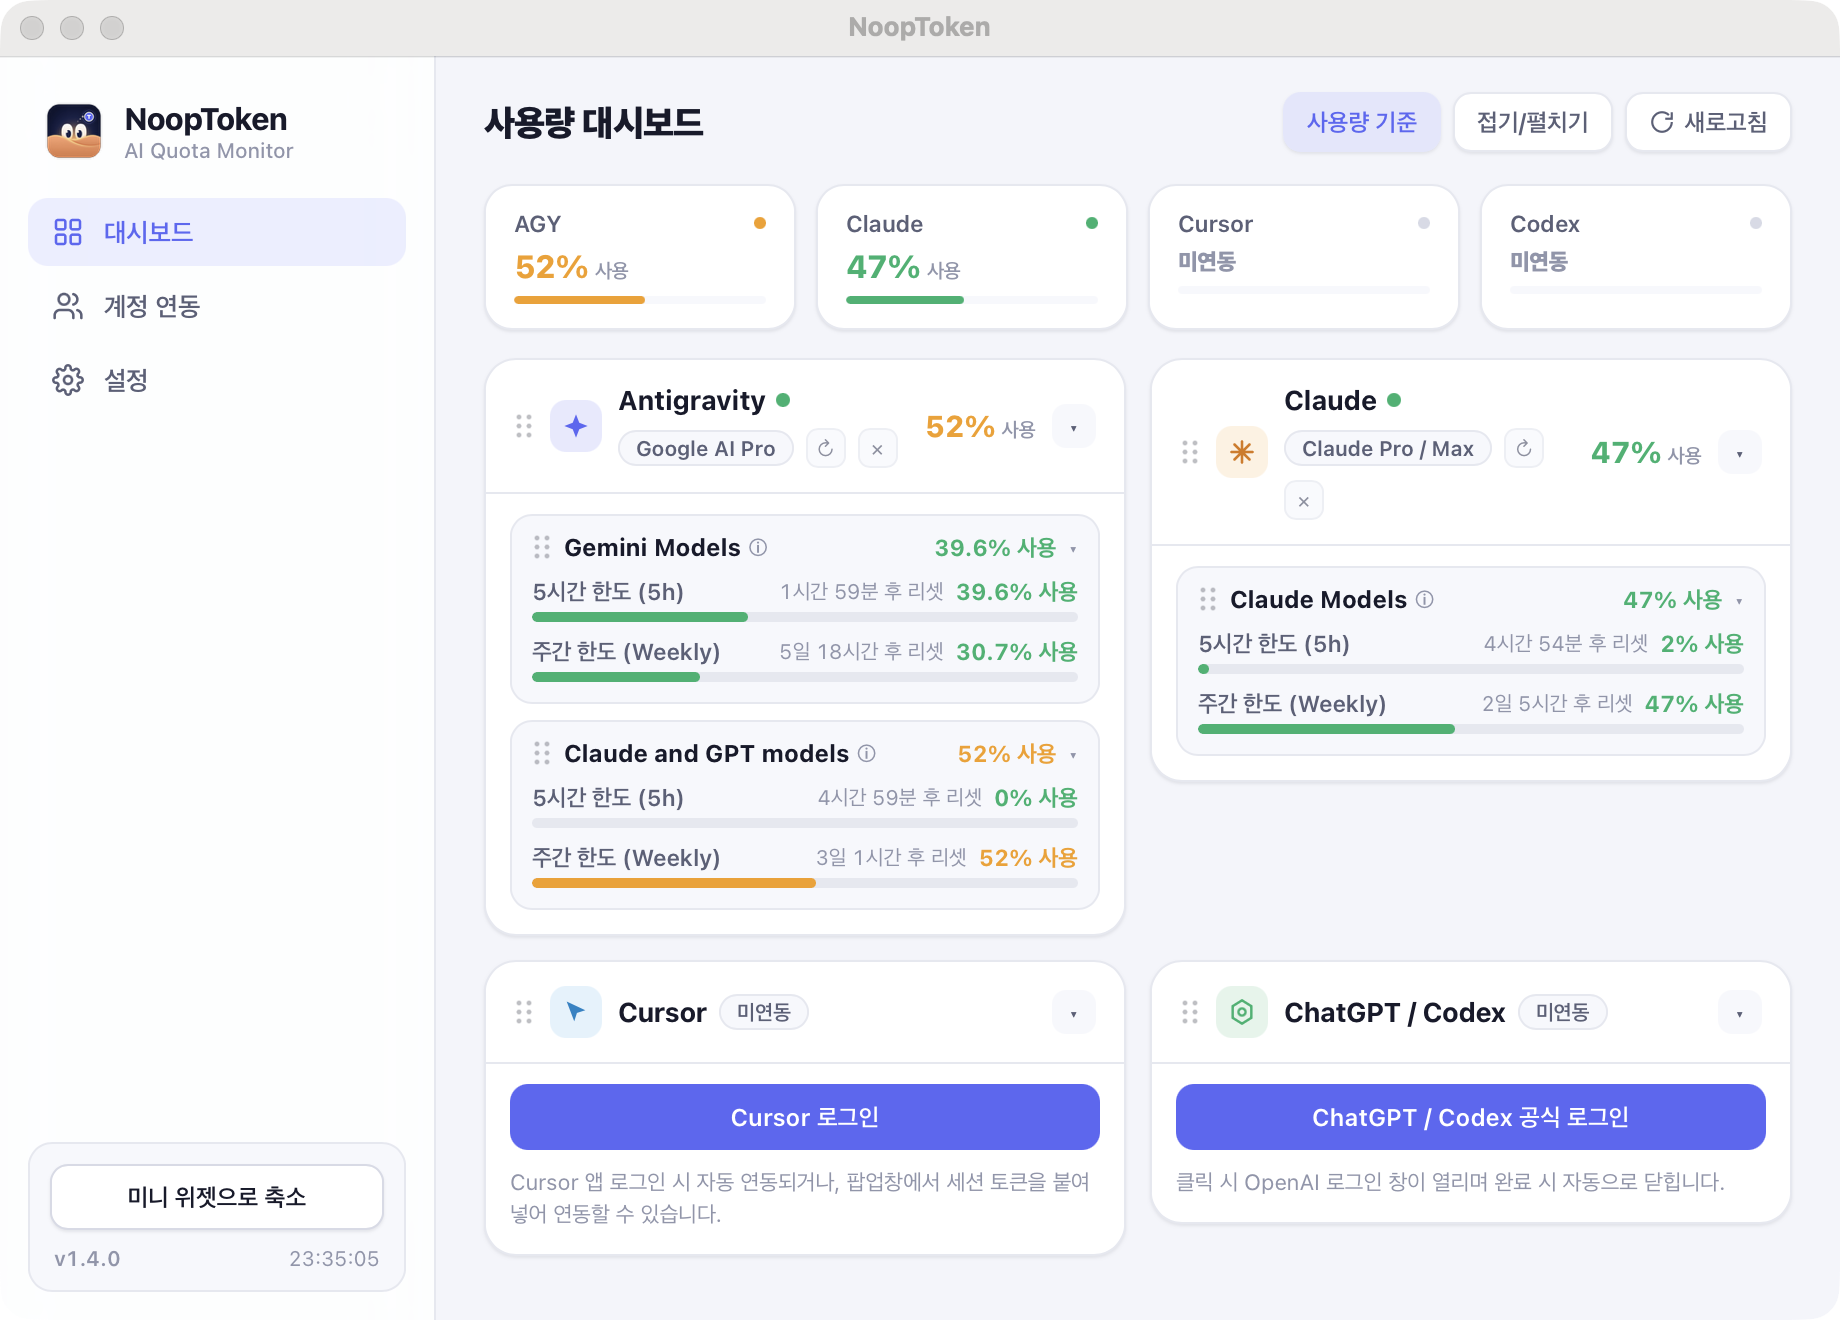
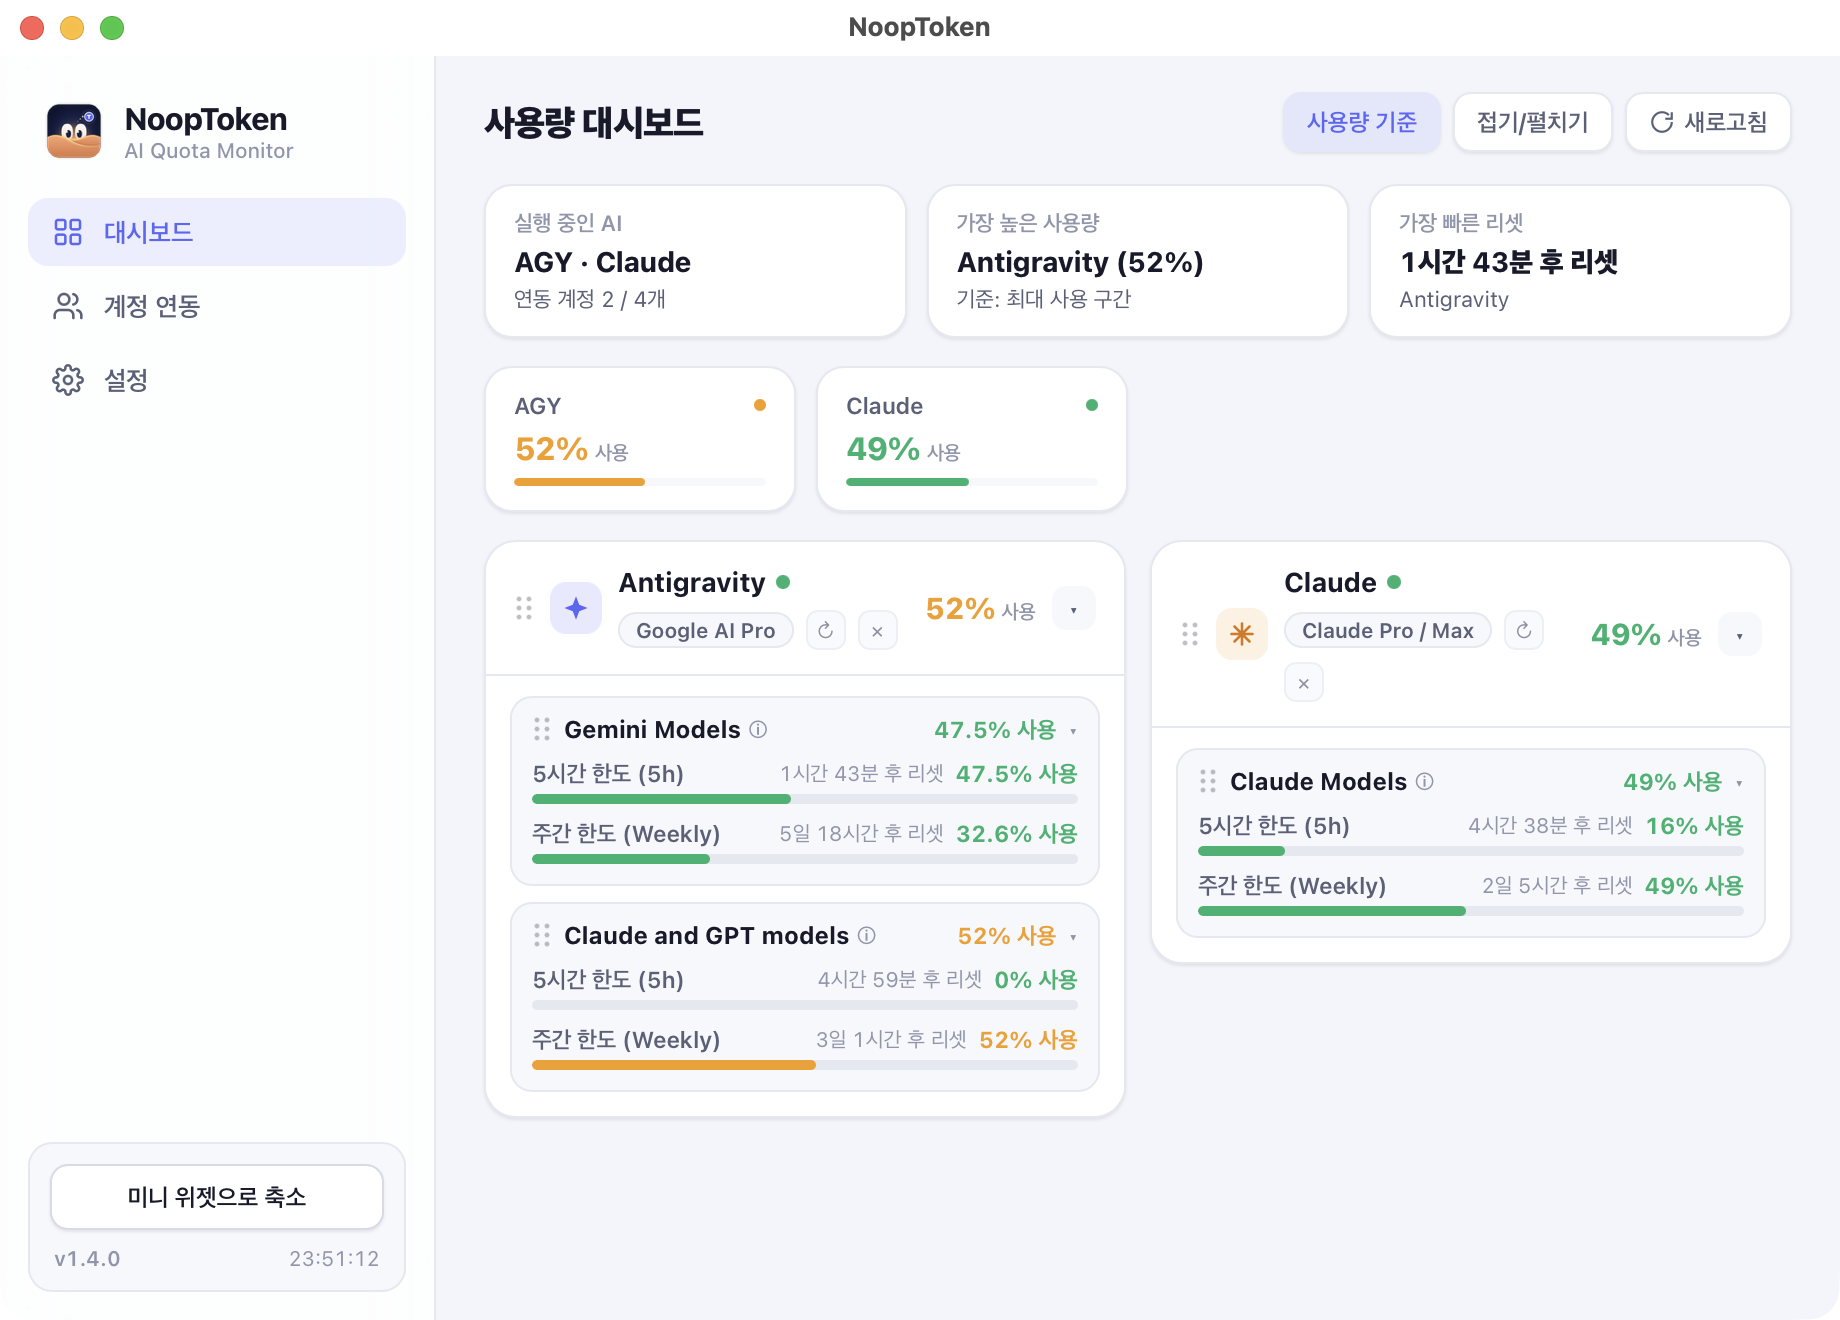
Separate Dashboard briefing/usage from Accounts management view

diff --git a/widget.py b/widget.py
@@ -524,6 +524,64 @@ UI_HTML = r"""<!DOCTYPE html>
     padding: 22px 16px; text-align: center; display: flex; flex-direction: column; gap: 10px; align-items: center;
   }
 
+  /* Dashboard Briefing Strip & Accounts List */
+  .briefing-grid {
+    display: grid;
+    grid-template-columns: repeat(3, minmax(0, 1fr));
+    gap: 10px;
+  }
+  .briefing-card {
+    background: var(--surface);
+    border: 1px solid var(--border);
+    border-radius: 14px;
+    padding: 12px 14px;
+    box-shadow: var(--shadow-sm);
+    display: flex;
+    flex-direction: column;
+    gap: 4px;
+  }
+  .briefing-label { font-size: 11px; color: var(--text-3); font-weight: 600; }
+  .briefing-value { font-size: 14px; font-weight: 750; color: var(--text); white-space: nowrap; overflow: hidden; text-overflow: ellipsis; }
+  .briefing-sub { font-size: 11px; color: var(--text-2); white-space: nowrap; overflow: hidden; text-overflow: ellipsis; }
+
+  .delta-tag {
+    font-size: 10px;
+    font-weight: 700;
+    padding: 1px 6px;
+    border-radius: 99px;
+    background: var(--surface-2);
+    border: 1px solid var(--border);
+    color: var(--text-2);
+    white-space: nowrap;
+  }
+  .delta-tag.up { color: var(--warn); }
+  .delta-tag.down { color: var(--ok); }
+
+  .accounts-grid {
+    display: grid;
+    grid-template-columns: repeat(2, minmax(0, 1fr));
+    gap: 12px;
+  }
+  @media (max-width: 720px) {
+    .briefing-grid, .accounts-grid { grid-template-columns: 1fr; }
+  }
+  .account-card {
+    background: var(--surface);
+    border: 1px solid var(--border);
+    border-radius: var(--radius);
+    padding: 16px;
+    box-shadow: var(--shadow-sm);
+    display: flex;
+    flex-direction: column;
+    gap: 12px;
+  }
+  .account-top { display: flex; align-items: center; justify-content: space-between; gap: 10px; }
+  .account-id { display: flex; align-items: center; gap: 10px; min-width: 0; }
+  .account-meta { display: flex; flex-direction: column; gap: 2px; min-width: 0; }
+  .account-title { font-weight: 700; font-size: 14px; display: flex; align-items: center; gap: 6px; }
+  .account-sub { font-size: 11.5px; color: var(--text-2); white-space: nowrap; overflow: hidden; text-overflow: ellipsis; }
+  .account-actions { display: flex; align-items: center; gap: 8px; flex-wrap: wrap; }
+
   /* Modal */
   .info-modal-backdrop {
     position: fixed; inset: 0; background: rgba(10, 12, 22, 0.55);
@@ -639,12 +697,13 @@ UI_HTML = r"""<!DOCTYPE html>
       </div>
 
       <section class="view-panel active" id="viewDashboard">
+        <div class="briefing-grid" id="briefingGrid"></div>
         <div class="mini-bar" id="miniBar"></div>
         <div class="cards" id="cardsContainer"></div>
       </section>
 
       <section class="view-panel" id="viewAccounts">
-        <div class="cards" id="accountsContainer"></div>
+        <div class="accounts-grid" id="accountsContainer"></div>
       </section>
 
       <section class="view-panel" id="viewSettings">
@@ -1017,6 +1076,100 @@ UI_HTML = r"""<!DOCTYPE html>
     `;
   }
 
+  let lastSnapshotUsed = JSON.parse(localStorage.getItem("nooptoken_last_used") || "{}");
+
+  function renderBriefing(orderedProviders) {
+    const el = document.getElementById("briefingGrid");
+    if (!el || compactMode) { if (el) el.innerHTML = ""; return; }
+    const logged = orderedProviders.filter(p => p.logged_in);
+    const running = orderedProviders.filter(p => p.running).map(p => shortName(p.id));
+    let peak = null;
+    logged.forEach(p => {
+      const used = Math.round((100 - (Number(p.remaining_pct) || 0)) * 10) / 10;
+      if (!peak || used > peak.used) peak = { name: p.name, used, reset: p.reset_text || "실시간" };
+    });
+    const nextReset = logged.find(p => p.reset_text) || logged[0];
+    el.innerHTML = `
+      <div class="briefing-card">
+        <span class="briefing-label">실행 중인 AI</span>
+        <span class="briefing-value">${running.length ? running.join(" · ") : "실행 중인 앱 없음"}</span>
+        <span class="briefing-sub">연동 계정 ${logged.length} / ${orderedProviders.length}개</span>
+      </div>
+      <div class="briefing-card">
+        <span class="briefing-label">가장 높은 사용량</span>
+        <span class="briefing-value" style="color:${peak && peak.used >= 80 ? 'var(--danger)' : 'var(--text)'}">${peak ? `${peak.name} (${peak.used}%)` : "연동 필요"}</span>
+        <span class="briefing-sub">${peak ? `기준: 최대 사용 구간` : "계정 연동 탭에서 로그인하세요"}</span>
+      </div>
+      <div class="briefing-card">
+        <span class="briefing-label">가장 빠른 리셋</span>
+        <span class="briefing-value">${nextReset ? nextReset.reset_text : "-"}</span>
+        <span class="briefing-sub">${nextReset ? nextReset.name : "대기 중"}</span>
+      </div>
+    `;
+  }
+
+  function renderAccountsView(orderedProviders) {
+    const accContainer = document.getElementById("accountsContainer");
+    if (!accContainer) return;
+    accContainer.innerHTML = orderedProviders.map(p => {
+      const showPaste = openPasteBoxes[p.id] ? "show" : "";
+      const placeholder = p.id === "claude"
+        ? "로그인 후 화면에 뜬 인증코드 붙여넣기"
+        : "WorkosCursorSessionToken 값 붙여넣기";
+      const needsPaste = (p.id === "claude" || p.id === "cursor");
+      if (p.logged_in) {
+        return `
+          <div class="account-card">
+            <div class="account-top">
+              <div class="account-id">
+                <div class="brand-icon brand-${p.id}">${getBrandIconSvg(p.id)}</div>
+                <div class="account-meta">
+                  <div class="account-title">
+                    <span>${p.name}</span>
+                    ${p.running ? `<span class="running-dot" title="현재 PC에서 실행 중"></span>` : ""}
+                  </div>
+                  <div class="account-sub">${escapeHtml(p.account || "연동됨")} · ${escapeHtml(p.plan || p.badge || "")}</div>
+                </div>
+              </div>
+              <span class="badge" style="color:var(--ok);border-color:rgba(22,179,110,0.3);">연동됨</span>
+            </div>
+            <div class="account-actions">
+              <button class="pill-btn" onclick="openProviderInfoModal('${p.id}', event)">상세 정보</button>
+              <button class="pill-btn" onclick="openLogin('${p.id}', event)">재연동</button>
+              <button class="pill-btn" style="color:var(--danger);" onclick="logoutProvider('${p.id}', event)">연동 해제</button>
+            </div>
+          </div>
+        `;
+      }
+      return `
+        <div class="account-card">
+          <div class="account-top">
+            <div class="account-id">
+              <div class="brand-icon brand-${p.id}">${getBrandIconSvg(p.id)}</div>
+              <div class="account-meta">
+                <div class="account-title">
+                  <span>${p.name}</span>
+                  ${p.running ? `<span class="running-dot" title="현재 PC에서 실행 중"></span>` : ""}
+                </div>
+                <div class="account-sub">${escapeHtml(p.hint || "계정을 연동하면 실시간 한도를 표시합니다.")}</div>
+              </div>
+            </div>
+            <span class="badge">미연동</span>
+          </div>
+          <div class="account-actions">
+            <button class="login-btn" style="width:100%;" onclick="openLogin('${p.id}', event)">${p.login_label || (p.name + " 로그인")}</button>
+          </div>
+          ${needsPaste ? `
+            <div class="paste-box ${showPaste}" id="paste_${p.id}">
+              <input class="paste-input" id="input_${p.id}" placeholder="${placeholder}" onclick="event.stopPropagation()" />
+              <button class="paste-submit" onclick="submitCodeOrToken('${p.id}', event)">연동</button>
+            </div>
+          ` : ""}
+        </div>
+      `;
+    }).join("");
+  }
+
   function render(data) {
     if (!data || !data.providers || isDragging) return;
     lastData = data;
@@ -1035,35 +1188,33 @@ UI_HTML = r"""<!DOCTYPE html>
     const orderedProviders = cardOrder.map(id => pMap[id]).filter(Boolean);
     data.providers.forEach(p => { if (!cardOrder.includes(p.id)) orderedProviders.push(p); });
 
-    // In compact (mini-widget) mode, hide apps that are NOT logged in!
-    const visibleProviders = compactMode
-      ? orderedProviders.filter(p => p.logged_in)
-      : orderedProviders;
+    renderBriefing(orderedProviders);
+    renderAccountsView(orderedProviders);
+
+    // Dashboard & Mini-widget show only logged-in providers (Accounts tab manages unlinked apps!)
+    const visibleProviders = orderedProviders.filter(p => p.logged_in);
 
     const miniBar = document.getElementById("miniBar");
-    if (visibleProviders.length === 0 && compactMode) {
+    if (visibleProviders.length === 0) {
       miniBar.innerHTML = "";
     } else {
       miniBar.innerHTML = visibleProviders.map(p => {
-        if (!p.logged_in) {
-          return `
-            <div class="mini-pill" onclick="openLogin('${p.id}', event)">
-              <div class="mini-pill-top">
-                <span>${shortName(p.id)}</span>
-                <span style="width:6px;height:6px;border-radius:50%;background:var(--border-strong);"></span>
-              </div>
-              <div class="mini-pill-val" style="color:var(--text-3);font-size:11.5px;">미연동</div>
-              <div class="mini-progress"><div class="mini-progress-fill" style="width:0%"></div></div>
-            </div>
-          `;
-        }
         const col = getColor(p.remaining_pct);
         const m = getDisplayMetric(p.remaining_pct);
+        const curUsed = Math.round((100 - (Number(p.remaining_pct) || 0)) * 10) / 10;
+        const prevUsed = lastSnapshotUsed[p.id];
+        const delta = (typeof prevUsed === "number") ? Math.round((curUsed - prevUsed) * 10) / 10 : 0;
+        const deltaHtml = delta !== 0
+          ? `<span class="delta-tag ${delta > 0 ? 'up' : 'down'}">${delta > 0 ? '+' : ''}${delta}%</span>`
+          : "";
         return `
           <div class="mini-pill" onclick="toggleCard('${p.id}')">
             <div class="mini-pill-top">
               <span>${shortName(p.id)}</span>
-              <span style="width:6px;height:6px;border-radius:50%;background:${col};"></span>
+              <span style="display:inline-flex;align-items:center;gap:4px;">
+                ${deltaHtml}
+                <span style="width:6px;height:6px;border-radius:50%;background:${col};"></span>
+              </span>
             </div>
             <div class="mini-pill-val" style="color:${col}">${m.pct}% <span style="font-size:10px;font-weight:600;color:var(--text-3);">${m.tag}</span></div>
             <div class="mini-progress"><div class="mini-progress-fill" style="width:${m.width}%;background:${col}"></div></div>
@@ -1072,22 +1223,24 @@ UI_HTML = r"""<!DOCTYPE html>
       }).join("");
     }
 
+    // Save latest used snapshot for delta display
+    const nextSnap = {};
+    orderedProviders.forEach(p => {
+      if (p.logged_in) nextSnap[p.id] = Math.round((100 - (Number(p.remaining_pct) || 0)) * 10) / 10;
+    });
+    localStorage.setItem("nooptoken_last_used", JSON.stringify(nextSnap));
+
     const container = document.getElementById("cardsContainer");
-    if (compactMode && visibleProviders.length === 0) {
+    if (visibleProviders.length === 0) {
       container.innerHTML = `
         <div class="empty-compact">
-          <div style="font-weight:700;font-size:13px;">연동된 AI 계정이 없습니다</div>
-          <div style="font-size:11.5px;color:var(--text-3);">전체 창으로 확장해 계정을 먼저 연동하세요.</div>
-          <button class="pill-btn active" onclick="toggleCompact()">전체 창으로 확장</button>
+          <div style="font-weight:700;font-size:13.5px;">연동된 AI 계정이 없습니다</div>
+          <div style="font-size:12px;color:var(--text-3);">${compactMode ? '전체 창으로 확장해 계정을 먼저 연동하세요.' : '좌측 [계정 연동] 탭에서 계정을 연결하세요.'}</div>
+          <button class="pill-btn active" onclick="${compactMode ? 'toggleCompact()' : "switchTab('accounts')"}">${compactMode ? '전체 창으로 확장' : '계정 연동으로 이동'}</button>
         </div>
       `;
     } else {
       container.innerHTML = visibleProviders.map(p => renderCardHtml(p, savedInputs)).join("");
-    }
-
-    const accContainer = document.getElementById("accountsContainer");
-    if (accContainer) {
-      accContainer.innerHTML = orderedProviders.map(p => renderCardHtml(p, savedInputs)).join("");
     }
 
     Object.keys(savedInputs).forEach(id => {
